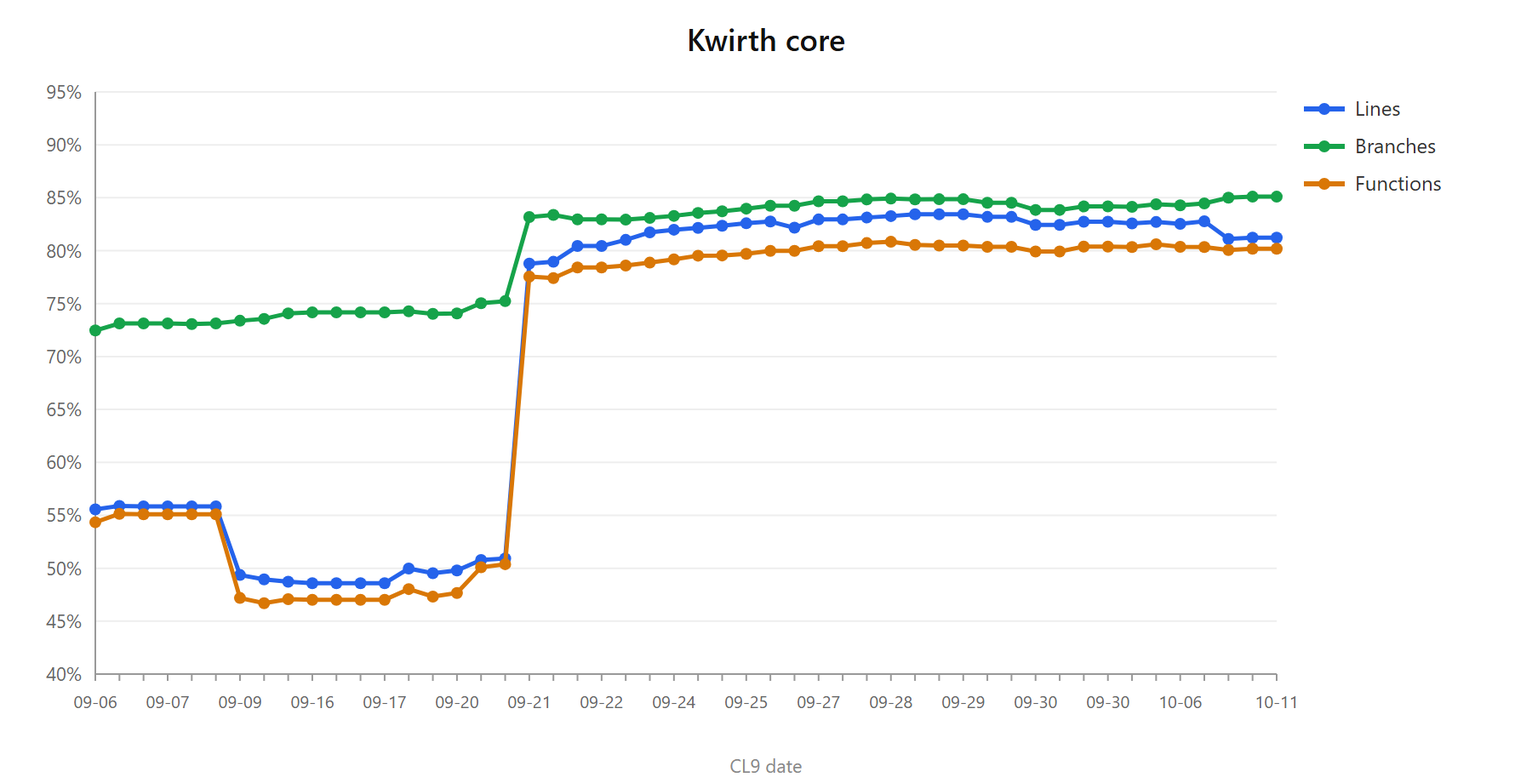
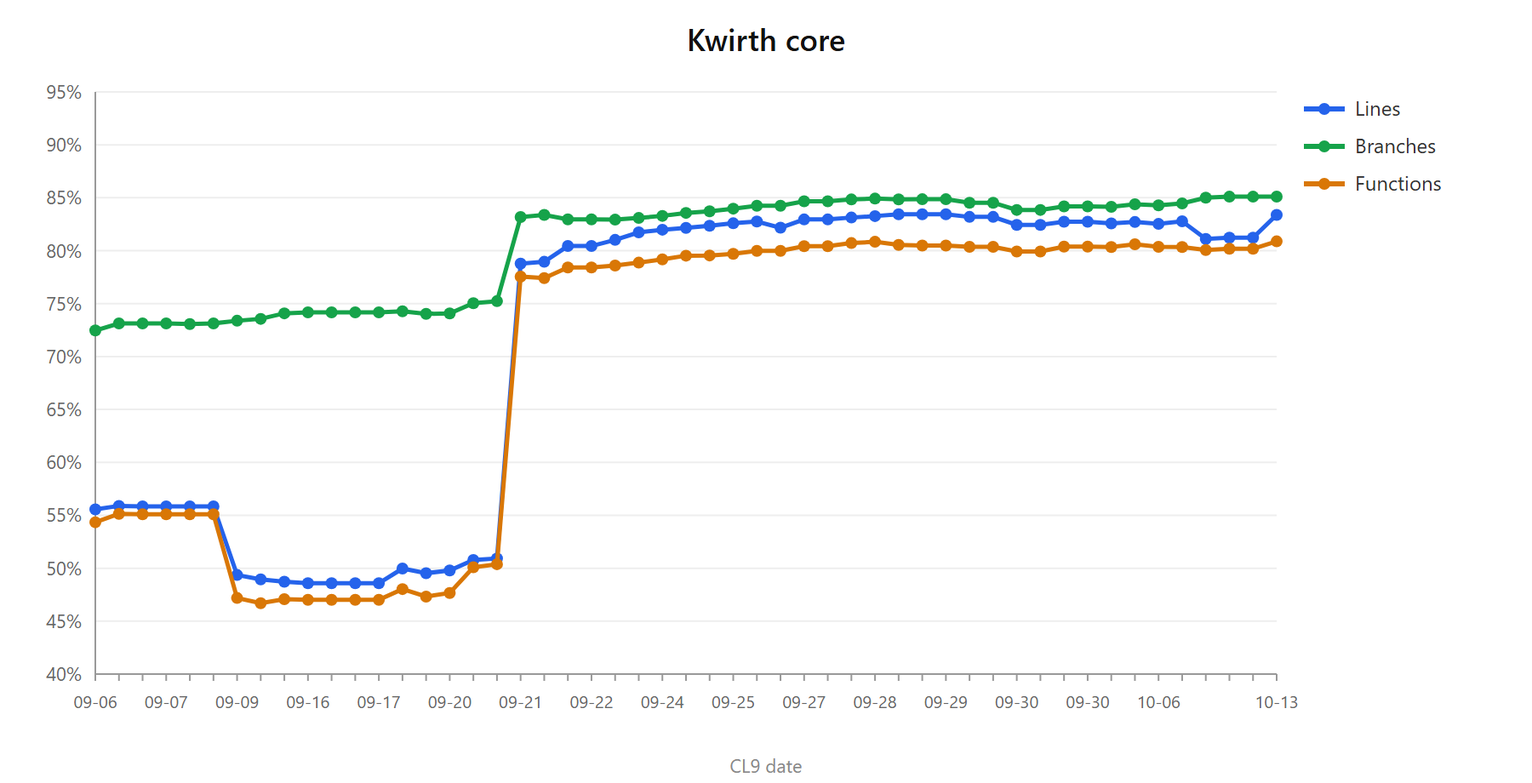
docs(metrics): the metrics provider as an extension — guide, plan and QA metrics
- Guide (0.6.31): a page for the Metrics provider; the providers index no
  longer lists Metrics (nor Business, installable for a while) as built-in;
  Magnify, the Metrics plugin, Kwirth settings and k8s-metrics point at it;
  the technical reference describes the new endpoints behind the access key.
- plans/metrics-provider/PLAN.md, live: P1 delivered, the paid part of the
  requires cascade blocked by the private GitLab being down.
- Core QA metrics row, and the 23 e2e reds of the full run, none of P1.

Changed region(s): [[0.0933, 0.2435, 0.84, 0.7913], [0.0933, 0.8826, 0.7778, 0.913]]

diff --git a/docs/qa/test-metrics-history.md b/docs/qa/test-metrics-history.md
@@ -55,6 +55,7 @@
 
 | Fecha | Cierre | Harness | Cobertura (líneas / ramas / funcs) | e2e | Notas |
 |---|---|---|---|---|---|
+| 2026-10-13 | El provider `metrics` sale del core a una extensión ([`metrics-provider`](../../plans/metrics-provider/PLAN.md), `provider/metrics@0.1.0`) | **710** ✅ de P1 (+3 net: −3 de "sin token", mudados al provider · +3 de capacidad del cluster · +3 de Magnify). ⚠ En el árbol, 1 rojo **ajeno**: `marketplaceDedup` › *las diez reciben el contenido*, sobre el `MarketplaceManager.ts` que el usuario tiene a medias | **83.38 % / 85.11 % / 80.88 %** (medido con P1 solo, antes del WIP ajeno; con él entra código sin tests y baja a 71.72 % de líneas) | 48 specs · 204 casos (=) — corrida completa: **115 ✅ · 23 ✗ · 4 ⏭ · 33 sin ejecutar**. Los 23: los 21 conocidos + `pinocchio-help` › *la guía responde…* (la guía de Pinocchio instalada no sirve `user/02-ui-tour.md`) + `tmp-css-probe` (sonda temporal del usuario, sin versionar) | **El core pierde el provider `metrics` (≈1000 líneas) y la cobertura de líneas SUBE** (81.23 → 83.38): era código que el harness del core solo rozaba, y ahora tiene 11 tests propios en el provider. Lo que el core se queda: `ClusterInfo.getNodes()` calcula vCPUs y memoria de `node.status.capacity` (antes los escribía el provider desde los kubelets, y sin él `/config/cluster` habría publicado ceros); Magnify embebe una copia mínima de `IMetricsClusterUsage` y su respuesta a `USAGE` lleva `metricsProvider`, para que el overview avise si falta en vez de pintar tres gráficas vacías. El cambio de intervalo en caliente ya no hace un cast a `MetricsProvider`: el core escribe `kwirthData.metricsInterval`, el mismo objeto que recibe el provider. ⚠ **Tres corridas e2e anteriores se tiraron**: dos cortadas a propósito y una contaminada (marketplace privado `repo.plexus.services` caído, timeouts del Postgres del dev, un reinicio del back por un cambio en `kwirth-dev.json` y la carga de clusters tardando más de lo que esperan los tests, que tumbó en cascada los settings y el selector). La buena es esta, con el entorno reiniciado. |
 | 2026-10-11 | El canal `metrics` sale del core a un plugin ([`metrics-plugin`](../../plans/completed/metrics-plugin/PLAN.md), `plugin/metrics@0.1.0`) | **707** ✅ (=) (703 pass · 4 skip · 0 fail) · chart **46** ✅ · manifiestos **26** ✅ | **81.23 % / 85.10 % / 80.18 %** (=) | 48 specs · 204 casos (=) — corrida completa: **111 ✅ · 21 ✗ · 3 ⏭ · 33 sin ejecutar**; `resource-selector-views` 10/10 | **El core pierde un canal y no gana nada a cambio, que es la idea.** Se van `back/src/channels/metrics` y `front/src/channels/metrics` (≈2000 líneas); se queda el **provider** `metrics`, del que también viven Magnify, alert, agora y spectrum. La cobertura no se mueve porque el canal nunca tuvo tests en el core: los tiene ahora en el plugin (21 de harness, 10 de e2e, en su propio histórico). Magnify deja de importar los tipos del canal y lo embebe por `prepareExternalChannel`, como ya hacía con log y trivy. `CHANNEL_METRICS` se retira de chart (`0.3.1`), manifiestos, `kwirth-external` y values: sus tests se ajustan y siguen en verde. ⚠ **La corrida e2e completa tiene 21 rojos, ninguno de este cierre** — deterministas, de UI cambiada bajo los tests o de extensiones que el dev no tiene; detalle en *Pendiente* arriba. `resource-selector-views` usa metrics para comprobar el filtro por vista y sigue en verde con el canal como plugin; se corrigieron sus comentarios, que decían que metrics era del core. |
 | 2026-10-10 | Los dos diálogos de AI config caben sin scroller, y el botón que aplica el formulario se ve (`common-ai` **0.5.69**) | **707** ✅ (703 pass · 4 skip · 0 fail) · `common-ai` **49** ✅ | **81.23 % / 85.10 % / 80.18 %** | **48** specs ✅ (+1) · 204 casos (+4) — `ai-config-dialog-layout.spec.ts` | **Se reportó como «no se persiste»: un límite de 3 llamadas/día subido a 30 volvía a salir en 3.** 🔴 **El comportamiento era correcto y el diagnóstico inicial, mirar la persistencia, era el sitio equivocado.** El `OK` del diálogo devuelve **la lista**, y lo que se teclea en el formulario solo llega a esa lista por el botón `Add`/`Update`. El defecto real era que **ese botón caía por debajo del pliegue**: el diálogo estaba clavado a `78vh` mientras el formulario crecía, así que el usuario rellenaba, daba a `OK` y el cambio nunca había entrado. 🔴 **La lección que deja la fila: un formulario cuyo control de commit no se ve es indistinguible de un formulario que no guarda.** La altura aquí no es cosmética, es lo que decide si se puede confirmar la edición. **Lo que se hizo no fue apretar, fue reorganizar.** Apretar se hizo (los tres párrafos de prosa del editor de límites pasan a un `caption`, `size='small'`, la etiqueta de 190→150 px), pero no bastaba: **4 unidades × 2 ventanas es el bloque más alto del formulario**, y apilado debajo de las credenciales no cabía en 720 px ni quitándole todo. El formulario pasa a **dos columnas** —credenciales a la izquierda, presupuesto a la derecha—, el diálogo de `800/900 px` a `90vw / 1200 px` y la lista se fija a `220 px`. Así el bloque de límites **compite** con las credenciales en vez de encadenarse a ellas. **Medido, no mirado a ojo**: a 1280×720 el `scrollHeight - clientHeight` del cuerpo es **0** en todos los casos (3 providers y 11 LLM, con y sin selección), y la columna del formulario se queda en ~410 px contra 538 disponibles. ⚠ **Los 538 los marca la LISTA, no el formulario**: tiene su propio `maxHeight: 70vh` y scroll interno, que es lo correcto y ya estaba — lo que se pidió quitar era el scroller que escondía el botón. 🔴 **Mi primera corrida de medidas era vacía justo en el peor caso y por poco la doy por buena**: los 11 LLM del entorno toman prestada la key de su provider, y en ese caso el editor de límites **no se pinta** —solo un aviso de dos líneas—, así que las 11 medidas idénticas no probaban nada sobre el bloque que causó el problema. El spec ahora **desmarca «Use provider API Key»** y vuelve a medir con el editor completo desplegado (sigue siendo no destructivo: se cancela). ⚠ **Un `retry #1` en `pinocchio-ai-provider-roundtrip` en la primera corrida tras reiniciar el front**; no reproducible en dos corridas posteriores de la misma combinación con `--retries=0` (8/8 limpio las dos veces) — webpack aún compilando, no el cambio. ⚠ **Tres publicaciones para un solo slice** (`0.5.67` apretando, `0.5.68` un `pb` suelto, `0.5.69` la reorganización): haber echado las cuentas de altura **antes** de publicar la primera habría ahorrado dos. El +12 de harness sobre la fila anterior es de otra sesión; este slice no toca el back |
 | 2026-10-09 | Un tercer tipo de despliegue: Kwirth en un pod **sin un solo permiso de Kubernetes** (`CONTAINER`, `kwirth-zero.yaml`, chart `mode: zero`) | **695** ✅ (+5) · manifiestos **26** ✅ (+18) · chart **46** ✅ (+7) | sin medir (WIP ajeno en el árbol) | manifiestos **63** ✅ (+23, **los tres**) · chart **77** ✅ (+17, **los tres modos** instalados de verdad en k3d) | **Lo pedido era un despliegue tradicional, sin SA ni roles ni nada, como el de ECS o Docker.** 🔴 **Mi primer diagnóstico fue erróneo y el usuario tenía razón**: dije que hacía falta tocar el core porque dentro de un pod `resolveEnvironmentCapabilities` fija `kubernetes = true` sin preguntar. Lo que no miré es que **`FORCE` existe precisamente para eso** y está documentado en el README de ECS como *override the environment detection*. Con `FORCE=ecs` salía andando sin una línea de código. ⚠ **Pero usar `ecs` en un pod es una mentira visible**: el comentario del propio enum dice que `executionEnvironment` se publica porque *"es lo primero que uno quiere saber al diagnosticar el despliegue de otro"*, y poner `ecs` ahí rompe justo eso. Así que se añadió **`CONTAINER` como valor real**, no como alias. 🔴 **Y el nombre genérico no es cosmético: nombra algo que ya existía.** ECS, Cloud Run y ACI **ya compartían el mismo `case`** en `resolveStore` y ya estaban juntos en la lista de `serverless` — son **un** perfil ("contenedor con volumen montado, store cifrado en `KWIRTH_STORE`, clúster solo si hay kubeconfig") con tres etiquetas, y lo único que los distingue es **cómo se detectan**. `CONTAINER` es el cuarto miembro, y el único que hay que declarar a mano porque no hay señal que detectar: el kubelet inyecta `KUBERNETES_SERVICE_HOST` en todo pod y eso gana. Radio del cambio: **ni el front ni un solo plugin** miran ese enum, solo tres ficheros del back. Efecto lateral bueno: `FORCE=ecs` sondeaba el endpoint de metadatos de ECS en cada arranque, fallaba y se disculpaba en el log; `CONTAINER` va directo al uuid generado. 🔴 **El matiz que salió de revisar `deploy/ecs` y que corrige el nombre**: `container` **no significa "sin clúster"**, significa "plataforma que Kwirth no reconoce". La `task-definition-ec2.json` **monta un kubeconfig** y sí ve su clúster — lo manda `probes.kubeconfig`, nunca el nombre del entorno. Está fijado en un test y dicho en las tres cabeceras. **El manifiesto son 5 objetos** (4 sin el bloque de SQL): Namespace, el Secret de la contraseña de la base, PVC, Deployment y Service. **Ni un objeto RBAC**, y `automountServiceAccountToken: false`, que es la mitad que no es RBAC: sin eso "sin roles" deja igualmente una credencial dentro del contenedor. Probado arrancando: `executionEnvironment: 'container'`, `clusterType: none`, el store cifrado escrito en el PVC y **el directorio del token inexistente** dentro del pod. **En el chart es `mode: zero`**, y como los otros dos arrastra consigo lo que tiene que ir junto: sin RBAC, sin ServiceAccount, token apagado, `FORCE=container` y los dos canales de clúster en false. Se niega a renderizar tres combinaciones, incluida **pedir RBAC en el modo cuyo propósito es no tenerlo**. ⚠ **Dos bugs del chart que destapó el modo nuevo.** (1) `users.bootstrap` estaba atado al MODO cuando la condición real es el **STORE**: el core lee ese Secret solo si su store es el clúster, así que un `normal` con `persistence` activada llevaba tiempo renderizando un Secret de usuarios **que nadie lee**. (2) `rbac.create` y `serviceAccount.create` estaban fijados a `true` en vez de derivarse; ahora siguen al modo y un `true` explícito con `zero` se rechaza como la contradicción que es. **Los tests pasan a cubrir TODAS las opciones de despliegue**, que es lo que se pidió: los unitarios de manifiestos miran los **tres** ficheros (antes uno), y el e2e los prueba a cada uno desde el ángulo que le toca — que el permisivo **sí puede** hacer `exec`, `delete` y `patch`, que es su razón de ser y nadie lo comprobaba; que el de lectura no puede; y que en el `zero` el ServiceAccount `default` al que cae **no puede absolutamente nada**. El del chart instala los tres modos de verdad, y en `zero` comprueba lo único que no se puede leer del YAML: que **arranca** como contenedor en vez de caer al `localhost:8080` inventado del cliente. ⚠ **Dos veces me destrozó bash las template literals** al insertar código con heredocs, la segunda dejando el fichero del e2e roto; se arregló escribiendo el bloque con la herramienta de ficheros y empalmándolo con un script, sin shell de por medio. `@kwirthmagnify/kwirth-common` a **0.5.66** |

diff --git a/plans/metrics-provider/PLAN.md b/plans/metrics-provider/PLAN.md
@@ -1,0 +1,85 @@
+# metrics-provider — el provider `metrics` sale del core — PLAN
+
+> Estado: **VIVO** (2026-10-13). P1 entregado, con el QA validado por el usuario y publicado:
+> `provider/metrics@0.1.0`, `plugin/metrics@0.1.1`, `plugin/alert@0.2.27`, `plugin/pinocchio@0.2.41` (+ su guía
+> `0.2.41`). **Queda una sola cosa**: la parte de pago de D5 (`spectrum` y `agora`), bloqueada porque el GitLab
+> privado `repo.plexus.services` está caído (sus repos y el manifest privado viven ahí). Sin PRD a propósito (D6): migración con precedente
+> (`business`, [plan](../completed/business-provider/PLAN.md)). Sigue a [metrics-plugin](../completed/metrics-plugin/PLAN.md),
+> que sacó el **canal**. Append-only.
+
+## Qué y por qué
+
+El provider `metrics` lee los kubelets (cAdvisor y `/stats/summary`) y reparte lecturas a sus suscriptores. Es
+de lo último que sigue compilado en el core, junto con `events` y el canal Magnify. Sale a `providers/metrics`
+para que el core no cargue con algo que solo tiene sentido con un Kubernetes detrás, y para que cada variante de
+imagen decida si lo trae.
+
+Consumidores: el canal **Magnify** (core) y los plugins **metrics**, **alert**, **pinocchio**, **spectrum** y
+**agora** (de pago). `echo` no: su `'metrics'` es una señal de OpenTelemetry.
+
+## Decisiones (validadas por el usuario el 2026-10-12)
+
+| # | decisión |
+|---|---|
+| D1 | id `metrics` (sin cambio: ningún consumidor se toca por el id), paquete `@kwirthmagnify/kwirth-provider-metrics`, OSS, `0.1.0`. Un provider y un plugin con el mismo id ya conviven (`trivy`) |
+| D2 | Un solo stream: core y extensión comparten id, así que extensión y retirada del core van juntas |
+| D3 | Las rutas del provider (lista de métricas, uso del cluster, config) pasan al **`configRouter`**, que el core monta detrás del accessKey en `/core/providerconfig/metrics/…`. El front usa la ruta nueva y, si recibe 404, prueba la antigua `/provider/metrics` (clusters remotos con versiones anteriores) |
+| D4 | Lo traen las imágenes `-readonly` y `-full` y el **desktop** (`back/kwirth-bundled.json`, que hoy no trae nada — y desde metrics-plugin tampoco el canal metrics, que también se añade) |
+| D5 | `requiresExtension` hacia `provider:metrics` en `metrics`, `alert`, `pinocchio`, `spectrum` (npm + manifest público) y `agora` (Nexus + manifest privado). Magnify, mientras sea del core, no puede declararlo: lo cubre D4 |
+| D6 | Sin PRD; este PLAN |
+
+## Lo que ata el provider al core, y cómo se desata
+
+| acoplamiento | solución |
+|---|---|
+| Router con `AuthorizationManagement.validKey` del core | D3 |
+| Escribe `clusterInfo.vcpus` / `memory`, que `ConfigApi` publica | el core los calcula de `node.status.capacity` en `getNodes()`; el provider guarda los suyos |
+| El core le cambia el intervalo en vivo con un cast a `MetricsProvider` | el intervalo sigue en los settings del core, que ya escribe `kwirthData.metricsInterval` (el mismo objeto que recibe el provider); el provider lo mira en cada tick y se reprograma |
+| Sin Kubernetes el core lo desregistra | el provider detecta que no hay API/token, avisa una vez y no arranca |
+| Magnify importa `IMetricsClusterUsage` | copia mínima local |
+| `ProviderApi` trata `events` y `metrics` como del core | queda solo `events` |
+| `back/tests/providers/metricsNoToken.test.ts` | se muda al harness del provider |
+
+## P1 — el provider `metrics` como extensión
+
+| # | tarea | estado |
+|---|---|---|
+| P1.1 | Scaffold con `create-kwirth-provider --config none`; `configRouter` añadido a mano y `express` contra la instancia del core | ✅ |
+| P1.2 | Provider y modelo portados, con la tabla de arriba. La ruta `/config` (GET/POST del intervalo) no se porta: nadie la llamaba | ✅ |
+| P1.3 | Retirada del core: `index.ts`, `ProviderApi`, `ClusterInfo.getNodes()` calcula la capacidad, Magnify con copia mínima de tipos, front con `fetchMetricsProvider` (ruta nueva + fallback) | ✅ |
+| P1.4 | Harness del provider (11, con un kubelet falso) y e2e (7: instalado y corriendo, rutas, datos, capacidad en el core, overview de Magnify); e2e del plugin metrics 10/10 contra la extensión; core 707 (3 tests nuevos de capacidad) | ✅ |
+| P1.6 | (pedido por el usuario) Magnify avisa en su overview si falta el provider: `USAGE` lleva `metricsProvider` (`IMagnifyClusterUsage`); test de back (3) y e2e `02-magnify-without-provider` (se salta si el provider está) | ✅ |
+| P1.5 | CL9: QA validado (7/7); guía (página nueva del provider, índices, Magnify, metrics, settings, referencia técnica); provider publicado; bundles `-readonly`/`-full`/desktop con provider + plugin; manifests públicos; tags | ✅ |
+| P1.7 | D5, parte OSS: `metrics` 0.1.1, `alert` 0.2.27 y `pinocchio` 0.2.41 con `requires` hacia `provider:metrics:0.1.0` (y common-back 0.6.1). La guía de pinocchio sale en lockstep **con README por primera vez**: su generador no lo metía y la 0.2.40 se publicó sin él | ✅ |
+| P1.8 | D5, parte de pago: `spectrum` y `agora` (+ sus guías en lockstep) al Nexus y al manifest privado | ⏳ bloqueado: GitLab privado caído |
+
+## Backlog (fuera de P1)
+
+| tema | qué falta |
+|---|---|
+| desktop | si el kubeconfig autentica con **certificado de cliente**, las opciones de `applyToFetchOptions` llevan un `agent` que el `fetch` nativo de Node ignora; con token funciona |
+| pinocchio-help (e2e del core) | falla porque la guía de Pinocchio instalada en el dev no tiene `user/02-ui-tour.md`; la `0.2.41` sí la trae — instalarla en el dev y relanzar |
+| core mínimo | siguientes: `events` como provider y Magnify como plugin (pedido del usuario, 2026-10-13) |
+
+### Dónde se quedó (2026-10-12, parado por el usuario) — superado, se cerró el 2026-10-13
+
+- P1.1–P1.4 y P1.6 hechos y **sin commitear**: `providers/metrics/` (nuevo), los cambios del core (`index.ts`,
+  `ClusterInfo.ts`, `ProviderApi.ts`, `CoreLogProvider.ts`, Magnify back/front, `Global.ts`, `App.tsx`,
+  `Homepage.tsx`), el borrado de `back/src/providers/metrics/` y el test mudado al provider.
+- El provider está registrado en `back/kwirth-dev.json` y el plugin metrics `0.1.0` instalado en el dev desde
+  el marketplace público.
+- **Falta, en este orden**: (1) regresión e2e del core. Se cortó dos veces y la tercera quedó contaminada (el
+  marketplace privado `repo.plexus.services` caído, timeouts del Postgres del dev y un reinicio del back por un
+  cambio en `kwirth-dev.json`). Relanzar con el back estable y luego `--last-failed`; lo que dependa del
+  marketplace privado se cuenta como saltado mientras siga caído. (2) Fila del core en `docs/qa`. (3) Pasos del
+  QA manual y **parar** (gate). (4) Resto del CL9: guía, bbpm del provider, manifest, bundles (D4), cascada de
+  `requires` (D5), plan, commit, tags, push.
+
+### Encontrado por el camino
+
+- 🔴 **Desktop sin credenciales hacia el kubelet**: con `@kubernetes/client-node` 1.x `applyToFetchOptions`
+  devuelve las opciones a usar, y el core las descartaba. Arreglado en el provider (test dedicado). ⚠ Lo que
+  queda: si el kubeconfig autentica con **certificado de cliente**, las opciones llevan un `agent` que el `fetch`
+  nativo de Node ignora; con token sí funciona. Al backlog.
+- Desde metrics-plugin el **desktop no trae el canal metrics** (su `kwirth-bundled.json` no lleva ninguna
+  extensión): lo arregla D4.

diff --git a/docs/0.6.31/providers/reference/metrics.md b/docs/0.6.31/providers/reference/metrics.md
@@ -1,19 +1,20 @@
 # Metrics
 
-The Metrics provider polls the Kubernetes cAdvisor API at a configurable interval and distributes cluster-wide resource data to all subscribing channels. It also exposes its own HTTP endpoints so the frontend and external tools can query the current metrics catalogue and cluster usage directly.
+The Metrics provider reads every node's kubelet (cAdvisor's `/metrics/cadvisor` and `/stats/summary`) at a configurable interval and distributes cluster-wide resource data to all subscribing channels. It is an **installable extension** (`@kwirthmagnify/kwirth-provider-metrics`, source in `providers/metrics`); it used to be compiled into the core. Its user-facing page is [Metrics (provider)](/0.6.31/guide/extensions/providers/metrics).
 
 ## What for
 
-  - Feed real-time CPU, memory, network, and disk metrics to channels (Metrics channel, Alert, Pinocchio, Censor…).
-  - Provide cluster-level resource usage snapshots to the kwirth frontend homepage.
-  - Let channels define alert thresholds evaluated on each metrics tick without polling Kubernetes themselves.
+  - Feed real-time CPU, memory, network and disk metrics to channels (Metrics, Magnify, Alert, Pinocchio, Spectrum, Agora…).
+  - Provide cluster-level resource usage to the kwirth home page and Magnify's overview.
+  - Let channels define thresholds evaluated on each reading without polling Kubernetes themselves.
 
 ## Features
 
-  - **Periodic polling** — reads cAdvisor every `metricsInterval` seconds (default `15`). The interval is configurable at runtime via the `/metrics/config` endpoint.
-  - **Push distribution** — on each tick, every subscribed channel receives the full `IMetricsCluster` snapshot via `processProviderEvent`.
-  - **HTTP endpoints** — exposes `GET /metrics` (metrics catalogue), `GET /metrics/usage/cluster` (aggregated cluster usage), and `GET|POST /metrics/config` (read/set interval). All endpoints require a valid API key.
-  - **Custom kwirth metrics** — computes derived metrics on top of raw cAdvisor data:
+  - **Periodic reading** — reads every node every `metricsInterval` seconds (default `15`). The interval belongs to Kwirth's settings (**☰ → Kwirth settings**): the core writes it into `kwirthData.metricsInterval`, the same object the provider receives, and the provider reschedules itself on its next tick when it changes.
+  - **Push distribution** — on each tick, every subscriber receives the full `IMetricsCluster` reading via `processProviderEvent`. A subscriber that throws does not stop the others.
+  - **HTTP endpoints** — in its `configRouter`, which the core mounts **behind the caller's access key** at `/core/providerconfig/metrics`.
+  - **No Kubernetes, no clock** — without a Kubernetes cluster behind Kwirth (`clusterType` other than `kubernetes`), or inside a cluster without a ServiceAccount token, it warns once and does not start reading.
+  - **Custom kwirth metrics** — computed on top of the raw cAdvisor data:
 
 | Metric | Description |
 |---|---|
@@ -27,15 +28,21 @@ The Metrics provider polls the Kubernetes cAdvisor API at a configurable interva
 | `kwirth_container_read_mbps` | Mbps read from disk during the last interval |
 | `kwirth_container_random_counter` | Accumulated container random counter |
 | `kwirth_container_random_gauge` | Instant container random gauge |
+| `kwirth_cluster_total_pods` | Total number of running pods in the cluster |
+| `kwirth_cluster_pods_percentage` | Percentage of cluster pod capacity in use |
+| `kwirth_cluster_memory_percentage` | Percentage of total cluster memory in use |
+| `kwirth_cluster_cpu_percentage` | Percentage of total cluster CPU in use |
 
 ## HTTP endpoints
 
+All of them require a valid access key (the core checks it before the provider sees the request).
+
 | Method | Path | Description |
 |---|---|---|
-| `GET` | `/metrics` | Returns the full metrics catalogue (name, type, help, eval expression) |
-| `GET` | `/metrics/usage/cluster` | Returns aggregated cluster CPU/memory usage |
-| `GET` | `/metrics/config` | Returns the current polling interval |
-| `POST` | `/metrics/config` | Updates the polling interval (`{ "metricsInterval": 30 }`) |
+| `GET` | `/core/providerconfig/metrics` | The metrics catalogue (`metric`, `type`, `help`, `eval`) |
+| `GET` | `/core/providerconfig/metrics/usage/cluster` | Aggregated cluster usage: `vcpus`, `memory`, `cpuUsage`, `memoryUsage`, `txmbps`, `rxmbps`, `pods`, `maxPods` |
+
+> Up to the core version where the provider became an extension, these lived at `/provider/metrics` and `/provider/metrics/usage/cluster`, with a `GET|POST /provider/metrics/config` for the interval that nobody used and was not carried over. The front end asks the new path first and falls back to the old one on a 404, so a cluster list that mixes versions keeps working.
 
 ## Subscribing from a channel
 
@@ -43,4 +50,4 @@ The Metrics provider polls the Kubernetes cAdvisor API at a configurable interva
 this.clusterInfo.addSubscriber('metrics', this, {})
 ```
 
-Each call to `processProviderEvent` receives an `IMetricsCluster` object containing per-node (`IMetricsNode`) and per-container metric values with timestamps.
+Each call to `processProviderEvent` receives an `IMetricsCluster`: `{ metricsInterval, cluster, nodes, clusterMetricValues }`, with per-node (`IMetricsNode`) container, pod and machine values. The model lives in `providers/metrics/src/common/MetricsTypes.ts`; consumers keep a copy of the part they read. A plugin that depends on it declares `{ "extensionType": "provider", "id": "metrics", "minVersion": "0.1.0" }` in `requiresExtension`.

diff --git a/docs/0.6.31/guide/extensions/providers/metrics.md b/docs/0.6.31/guide/extensions/providers/metrics.md
@@ -1,0 +1,55 @@
+# Metrics (provider)
+
+> **Type:** Provider<br>
+> **Package:** `@kwirthmagnify/kwirth-provider-metrics`
+
+## What it does
+
+The **Metrics** provider reads **real-time resource metrics** from every node of the cluster: CPU, memory, network, disk and pods. It asks each node's **kubelet** directly (cAdvisor's `/metrics/cadvisor` and the `/stats/summary` endpoint), so there is **no Prometheus** or any other scraping stack to install.
+
+Every **Cluster metrics read interval** seconds it reads the whole cluster and hands that reading to every channel subscribed to it. It is what feeds:
+
+| Consumer | What it uses |
+|---|---|
+| **[Metrics](../plugins/metrics)** channel | Everything: the per-container and per-pod values, and the list of available metrics its setup offers. |
+| **[Magnify](../plugins/magnify)** | The cluster usage in its overview (% CPU, % Memory, Tx/Rx Mbps), and the Metrics windows it opens on objects. |
+| **[Alert](../plugins/alert)** | Its metric-threshold rules. |
+| **Pinocchio**, **Spectrum**, **Agora** | Their own analyses and panels. |
+| **Home page** | The cluster consumption figures. |
+
+Besides the raw cAdvisor values it adds ready-made metrics: `kwirth_container_*` (CPU %, memory %, read/write and Tx/Rx Mbps) and `kwirth_cluster_*` (total pods, pods %, memory %, CPU %). They are described on the [Metrics channel](../plugins/metrics#the-kwirth_-convenience-metrics) page.
+
+## When you need it
+
+Whenever Kwirth runs **with a Kubernetes cluster behind it** and you want metrics: the Metrics channel, Magnify's consumption charts, metric alerts. Without it those still open, but have nothing to show — Magnify says so in its overview instead of drawing empty charts:
+
+> *The metrics provider is not installed in this cluster, so there is no cluster usage to draw. Install it from ☰ → Manage extensions → Providers.*
+
+## Installing it
+
+From **☰ → Manage extensions → Providers**, find **Metrics** in the marketplace and install it. It **already comes installed** in the images that carry channels (`-readonly` and `-full`, which is also the plain image tag and `latest`) and in the desktop app — see the image variants in [Deployment](../../admin/01-deployment). On a `-core` image you install it yourself.
+
+The plugins that live on it (**Metrics**, **Alert**, **Pinocchio**, **Spectrum**, **Agora**) declare it as a requirement, so the marketplace will not let you install them without it.
+
+## Configuration
+
+**None** of its own. The one setting it obeys is the **Cluster metrics read interval (seconds)** in **☰ → Kwirth settings** (15 by default), which belongs to Kwirth: change it there and the provider takes the new value on its next read, without restarting anything. See [Initial configuration](../../admin/02-initial-config).
+
+## How it reaches the kubelets
+
+| Where Kwirth runs | How |
+|---|---|
+| **Inside the cluster** | Straight to each node's kubelet (port 10250), with the **ServiceAccount token** Kubernetes projects into the pod. That is why the read-only deployment (`kwirth-full-ro.yaml`, Helm mode `readonly`) keeps its metrics: reading that token needs no permission. |
+| **Outside, with a kubeconfig** | Through the API server's node proxy (`/api/v1/nodes/<node>/proxy/...`). |
+| **Desktop** | The same proxy, with the **kubeconfig's credentials**. |
+
+## Notes
+
+- **No Kubernetes behind Kwirth** (ECS, ACI, a container without a kubeconfig, Helm mode `zero`): there are no kubelets to read. The provider says so **once** in the log and stays idle, so don't bother installing it there.
+- **No ServiceAccount token** inside a cluster: every read would be a 401, so it does not start its clock and warns once, instead of one error per node every interval.
+- **A node that does not answer** only loses its own metrics for that read; the rest of the cluster keeps coming.
+- It needs nothing from the cluster beyond what Kwirth already reads: no extra RBAC, no agents.
+
+---
+
+← Back to [Providers](index)

diff --git a/plans/README.md b/plans/README.md
@@ -28,6 +28,7 @@ meses después — que es exactamente lo que pasaba antes de escribir este índi
 
 | plan | de qué va | qué queda |
 |---|---|---|
+| [metrics-provider](metrics-provider/PLAN.md) | el provider `metrics` sale del core a una extensión instalable (`provider/metrics@0.1.0`); sus rutas pasan al `configRouter` detrás del accessKey, el core calcula la capacidad del cluster y Magnify avisa si falta | **P1 entregado** (2026-10-13), con `metrics`, `alert` y `pinocchio` republicados con `requires`. Queda la parte de pago (`spectrum`, `agora`), bloqueada por el GitLab privado caído |
 | [auth-hardening](auth-hardening/PLAN.md) | hallazgos de la auditoría de seguridad sobre la superficie de autenticación del core | **borrador, abierto** (2026-10-08): 7 hallazgos verificados contra una instancia dev real. 🔴 **A1 CRÍTICO** — el `masterKey` por defecto `Kwirth4Ever` permite forjar una bearer `admin::::` offline (confirmado: `/user`, `/key`, `/core/scopes` → 200), y además cifra los secretos at-rest. Más `/config/info` sin auth, `RECONNECT`/`ROUTE` del WS sin accessKey, login sin rate-limit real, y HMAC/timingSafeEqual como hardening. Nada aplicado aún |
 | [least-privilege](least-privilege/PLAN.md) | desplegar Kwirth **sin un solo permiso de escritura** y sin perder observabilidad: `kwirth-full-ro.yaml`, con el store en PVC para que su configuración deje de ser Secrets que escribe | **entregado y validado en k3d** (2026-10-08): 8 tests del manifiesto, 41 comprobaciones e2e contra el API server, 11 tests del back, docsify y website al día. **B1, B2, B4, B5 y B6 cerrados** — entre ellos un bug latente que afectaba también al despliegue permisivo: el token del SA se pedía una vez, caducaba a los 7 días y nadie lo renovaba, así que las métricas morían en silencio cada semana. Queda **B3**, el RBAC del chart de Helm, que sigue siendo `*`/`*` |
 | [ai-usage-control](ai-usage-control/PLAN.md) · [PRD](ai-usage-control/PRD.md) | contar lo que Kwirth gasta en IA y **cortar**: por clave de LLM y por canal, en coste, llamadas o tokens, con ventana diaria y mensual | **S1 entregado** (2026-10-06): el envoltorio de `generateText` cuenta y corta por clave, con su UI y su consumo visible; `common-ai` en 0.5.66. Queda **S2**, el tope por canal, que exige pasar el `consumerId` desde los ocho consumidores — cinco de ellos de pago |

diff --git a/docs/0.6.31/guide/extensions/plugins/magnify.md b/docs/0.6.31/guide/extensions/plugins/magnify.md
@@ -34,7 +34,7 @@ The landing screen (a header with **cluster name, Kubernetes version, platform a
 
 ![Magnify cluster overview](../../../_media/guide/channel-magnify-overview.png)
 
-**1 · Consumption charts.** Real-time cluster consumption — **% CPU**, **% Memory** and network **Tx / Rx Mbps** — drawn live (no Prometheus needed).
+**1 · Consumption charts.** Real-time cluster consumption — **% CPU**, **% Memory** and network **Tx / Rx Mbps** — drawn live (no Prometheus needed). They come from the **[Metrics provider](../providers/metrics)**; if it is not installed, this section says so instead of drawing empty charts.
 
 **2 · Validations.** The row of hexagon **badges**, one per resource kind (node, ConfigMap, Secret, Deployment, ReplicaSet, StatefulSet, DaemonSet, Job, Ingress, Service, volume, Role, ClusterRole…). Each badge carries **two counters — errors and warnings** — from Magnify's cluster validation, so you can spot at a glance which kinds of objects have problems (e.g. a red count on *Deployments* tells you a workload needs attention).
 
@@ -221,6 +221,7 @@ The **desktop** app is built for local work like Lens/K9s/Headlamp: instead of c
 ## Admin guide
 
 - **Built-in:** ships with the core; enable/disable at deploy (Helm `channelMagnify`, External `--channelmagnify`). Nothing to install in *Manage extensions*.
+- **Metrics:** the consumption charts and the Metrics windows need the **[Metrics provider](../providers/metrics)** (and the windows, the [Metrics](metrics) plugin). Both come in the `-readonly` / `-full` images and the desktop.
 - **Permissions:** because Magnify can do *everything*, it honours the full scope model — browsing needs read/streaming scopes; restarting/deleting needs `ops$restart`, and cluster-level mutations need `cluster` on the target objects. Grant Magnify power deliberately (see [Security & permissions](../../admin/04-security-and-permissions)).
 - **Trivy Operator:** Magnify can deploy the Trivy Operator to a cluster that doesn't have it, enabling vulnerability scans.
 

diff --git a/docs/0.6.31/guide/extensions/providers/index.md b/docs/0.6.31/guide/extensions/providers/index.md
@@ -19,13 +19,11 @@ Why the indirection?
 
 ## Built-in providers
 
-These ship with the kwirth core — nothing to install:
+This one ships with the kwirth core — nothing to install:
 
 | Provider | What it streams | Consumed by |
 |---|---|---|
 | **Events** | A kwirth event whenever a **Kubernetes cluster event** occurs (Pod created, Deployment scaled, node pressure…). | Alert, Censor, Pinocchio, Topology… |
-| **Metrics** | Cluster-wide **resource metrics** polled from the kubelet/cAdvisor API on a configurable interval. | Metrics, Magnify |
-| **Business** | External **business data** ingested via HTTP `POST`, routed to channels by **space / type**. | Alert, Censor, Pinocchio |
 
 ## Installable provider plugins
 
@@ -33,6 +31,8 @@ Add these from **☰ → Manage extensions → Providers**:
 
 | Provider | What it does | Notes / key config |
 |---|---|---|
+| **[Metrics](metrics)** | Cluster-wide **resource metrics** read from every node's kubelet/cAdvisor on a configurable interval — no Prometheus. | Feeds Metrics, Magnify, Alert… Comes installed in the `-readonly` / `-full` images and the desktop. |
+| **Business** | External **business data** ingested via HTTP `POST`, routed to channels by **space / type**. | Consumed by Alert, Censor, Pinocchio. |
 | **[Tick](tick)** | Fires a **heartbeat** every few seconds. | Great for testing channel subscriptions; no real config. |
 | **[Validating](validating)** | Emits an event whenever the Kubernetes API calls a **Validating webhook** — lets kwirth observe admission decisions. | Register it as a validating webhook target. |
 | **[Kafka](kafka)** | Connects to one or more **Kafka** broker sets and distributes topic messages to channels using the same **space/type** routing as Business. | Broker list, topics, credentials. |

diff --git a/docs/0.6.31/guide/extensions/plugins/metrics.md b/docs/0.6.31/guide/extensions/plugins/metrics.md
@@ -131,7 +131,7 @@ So you can, for example, keep most metrics as lines but switch one to a **Pie** 
 ## Admin guide
 
 - **Installing it:** Metrics is a plugin. Install it from **☰ → Manage extensions → Plugins** like any other; uninstalling it removes the channel. It already comes inside the `-readonly` and `-full` images (and the plain image tag), so on those there is nothing to install — see the image variants in [Deployment](../../admin/01-deployment).
-- **What it needs from the core:** the data comes from the core's built-in **`metrics` provider**, which reads the kubelets. Without a Kubernetes API behind Kwirth (ECS, ACI, a container without a kubeconfig, Helm mode `zero`) there is nothing to draw, so don't install it there.
+- **What it needs:** the data comes from the **[Metrics provider](../providers/metrics)**, which reads the kubelets. It is a requirement: the marketplace will not install this plugin without it, and both come in the `-readonly` / `-full` images. Without a Kubernetes API behind Kwirth (ECS, ACI, a container without a kubeconfig, Helm mode `zero`) there is nothing to draw, so don't install either there.
 - **Sampling rate:** the cluster-wide metrics read interval is set at deploy (`--metricsinterval`) and can be adjusted per cluster in **☰ → Cluster Settings** (see [Initial configuration](../../admin/02-initial-config)). The per-tab **Interval** above is how often the client refreshes its charts.
 - **Permissions:** users need the **`stream`** scope on the target objects (or a higher one: **`cluster`** or **`admin`**) — see [Security & permissions](../../admin/04-security-and-permissions).
 

diff --git a/docs/0.6.31/guide/admin/02-initial-config.md b/docs/0.6.31/guide/admin/02-initial-config.md
@@ -43,7 +43,7 @@ Two small settings are worth knowing, both reached from the **☰ main menu**.
 
 ![Kwirth settings dialog](../../_media/guide/admin-kwirth-settings.png)
 
-What you save here is **stored by kwirth and survives a restart**. Changing it also retimes the running metrics provider immediately, so you do not need to restart anything for it to take effect.
+What you save here is **stored by kwirth and survives a restart**. The [Metrics provider](../extensions/providers/metrics) picks up a new value on its next read, so you do not need to restart anything for it to take effect.
 
 Managing these settings requires the **`admin`** scope; without it the dialog will tell you so instead of loading.
 

diff --git a/docs/0.6.31/guide/extensions/index.md b/docs/0.6.31/guide/extensions/index.md
@@ -26,7 +26,7 @@ The channels users work with. All are **plugins** you can install or remove, exc
 
 ## [Providers (data sources)](providers/index)
 
-Feed data into channels. Built-in: **Events**, **Metrics**, **Business**. Installable: **Tick**, **Validating**, **Kafka**, **OpenTelemetry**, **Syslog**, **HTTP Pull-Push**, **Trivy**, **Sample**. → **[Providers manual](providers/index)**
+Feed data into channels. Built-in: **Events**. Installable: **[Metrics](providers/metrics)**, **Business**, **Tick**, **Validating**, **Kafka**, **OpenTelemetry**, **Syslog**, **HTTP Pull-Push**, **Trivy**, **Sample**. → **[Providers manual](providers/index)**
 
 ## [Senders (output destinations)](senders/index)
 

diff --git a/docs/0.6.31/guide/extensions/aitoolsets/k8s-metrics.md b/docs/0.6.31/guide/extensions/aitoolsets/k8s-metrics.md
@@ -32,7 +32,7 @@ toolset is a bot being asked to explain a number it cannot see.
 
 ## Notes
 
-- Needs the **metrics provider** to be running and feeding kwirth (capability `METRICS`); the tools read the
+- Needs the **[metrics provider](../providers/metrics)** installed, running and feeding kwirth (capability `METRICS`); the tools read the
   samples kwirth keeps in memory, they do not scrape anything themselves.
 - The `get_prev_*` tools take *N readings*, not minutes. How much wall-clock time that covers depends on the
   provider's sampling interval — which is a cluster-wide setting.

diff --git a/docs/0.6.31/_sidebar.md b/docs/0.6.31/_sidebar.md
@@ -51,6 +51,7 @@
       * [Sender Debug](/0.6.31/guide/extensions/plugins/sender-debug)
       * [Net Tools](/0.6.31/guide/extensions/plugins/nettools)
     * [Providers](/0.6.31/guide/extensions/providers/index)
+      * [Metrics](/0.6.31/guide/extensions/providers/metrics)
       * [Tick](/0.6.31/guide/extensions/providers/tick)
       * [Validating](/0.6.31/guide/extensions/providers/validating)
       * [Kafka](/0.6.31/guide/extensions/providers/kafka)
